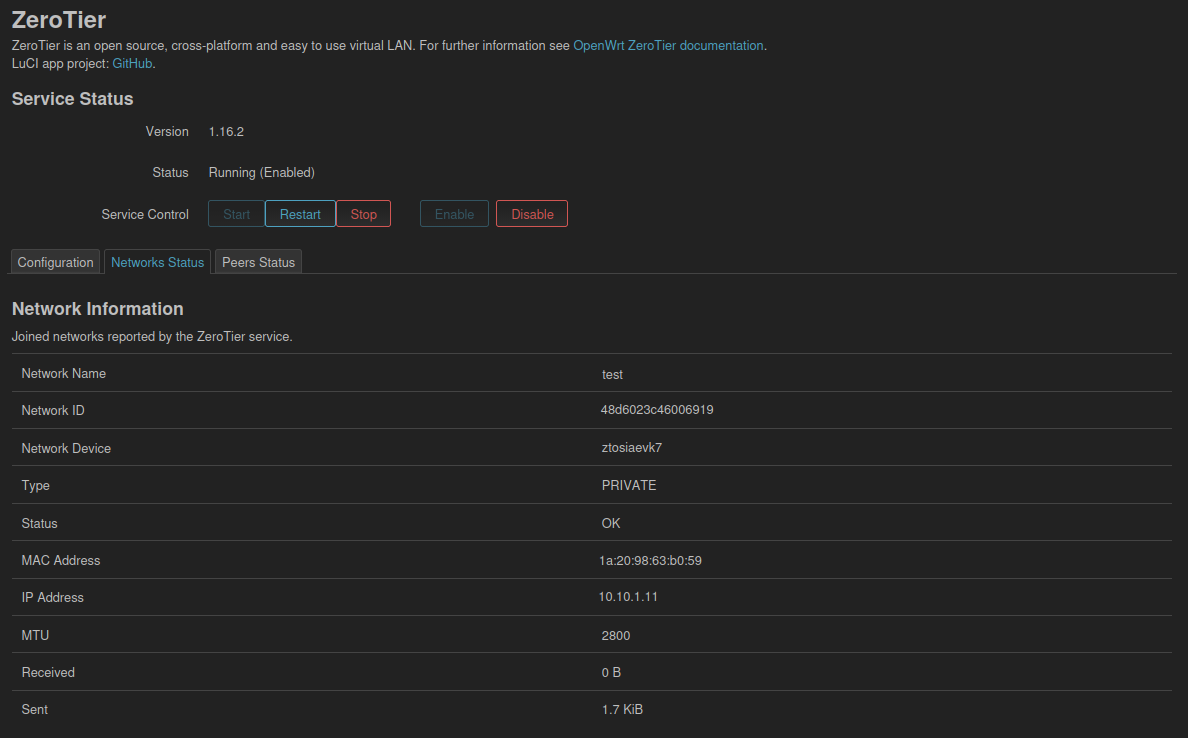
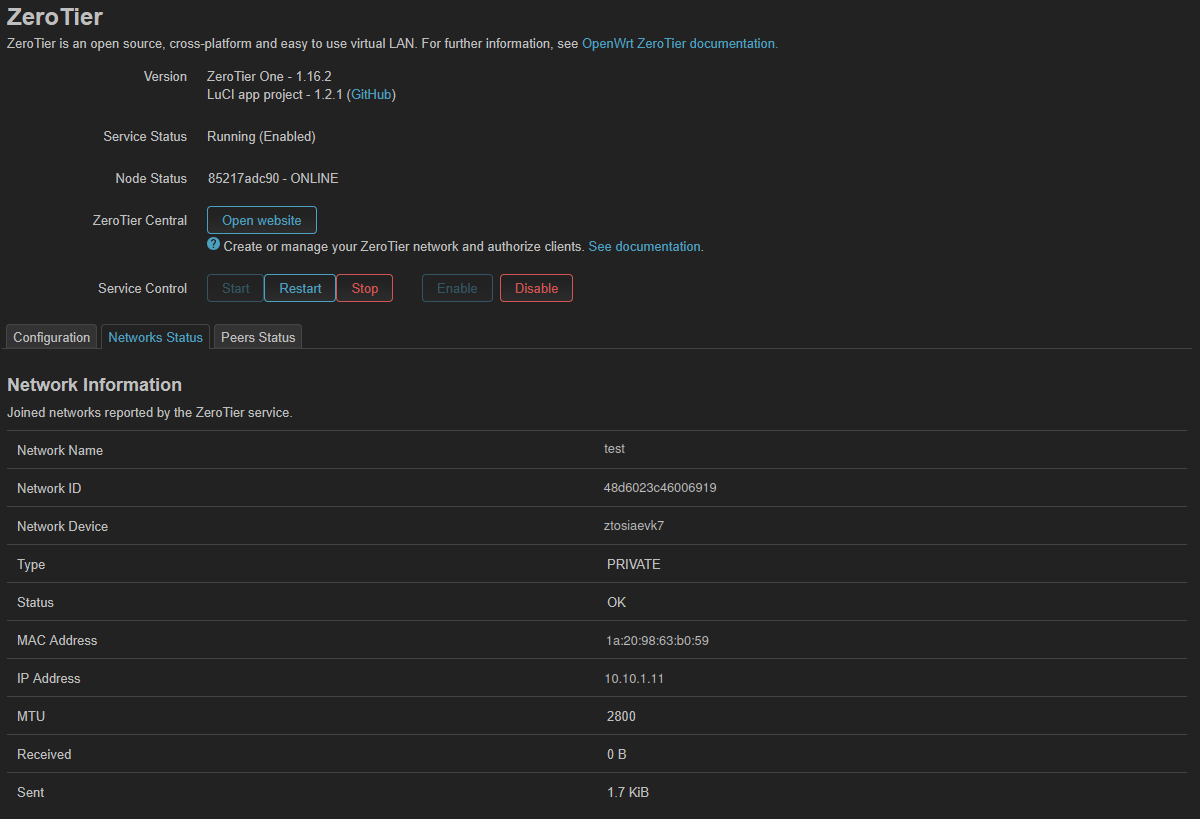
luci-app-zerotier: improve LuCI app version display
- Update the LuCI status page to display both ZeroTier One and LuCI package versions, with a link to the project repository
- Embed the LuCI package version into the backend method (`luci.zerotier` script) during the build
- Update translations accordingly

diff --git a/htdocs/luci-static/resources/zerotier/status.js b/htdocs/luci-static/resources/zerotier/status.js
@@ -85,7 +85,7 @@ var status = baseclass.extend({
 	render() {
 		const self = this;
 		const header = E('div', {}, [
-			E('h2', { class: 'content' }, _('ZeroTier')),
+			E('h2', { class: 'content' }, 'ZeroTier'),
 			E('div', { class: 'cbi-map-descr' }, [
 				_('ZeroTier is an open source, cross-platform and easy to use virtual LAN.'),
 				' ',
@@ -95,15 +95,7 @@ var status = baseclass.extend({
 					target: '_blank',
 					rel: 'noopener noreferrer',
 					href: 'https://openwrt.org/docs/guide-user/services/vpn/zerotier'
-				}, _('OpenWrt ZeroTier documentation.')),
-				E('br'),
-				_('LuCI app project'),
-				': ',
-				E('a', {
-					target: '_blank',
-					rel: 'noopener noreferrer',
-					href: 'https://github.com/Ser9ei/luci-app-zerotier'
-				}, 'GitHub.')
+				}, _('OpenWrt ZeroTier documentation.'))
 			])
 		]);
 
@@ -123,7 +115,7 @@ var status = baseclass.extend({
 		]);
 
 		const central = E('div', { class: 'cbi-value' }, [
-			E('label', { class: 'cbi-value-title' }, _('ZeroTier Central')),
+			E('label', { class: 'cbi-value-title' }, 'ZeroTier Central'),
 			E('div', { class: 'cbi-value-field' }, [
 				E('button', {
 					class: 'btn cbi-button cbi-button-apply',
@@ -305,8 +297,25 @@ var status = baseclass.extend({
 
 		callGetVersion()
 			.then(function(res) {
-				version.lastElementChild.textContent =
-					res?.zerotier?.version ?? _('Unknown');
+				const ver = res?.zerotier;
+				if (!ver)
+					return version.lastElementChild.textContent = _('Unknown');
+
+				version.lastElementChild.replaceChildren(
+					E('div', {}, [
+						E('div', {}, ('ZeroTier One - %s').format(ver.version || _('Unknown'))),
+						E('div', {}, [
+							_('LuCI app project - %s').format(ver.luci || _('Unknown')),
+							' (',
+							E('a', {
+								target: '_blank',
+								rel: 'noopener noreferrer',
+								href: 'https://github.com/Ser9ei/luci-app-zerotier'
+							}, 'GitHub'),
+							')'
+						])
+					])
+				);
 			})
 			.catch(function() {
 				version.lastElementChild.textContent = _('Unknown');
